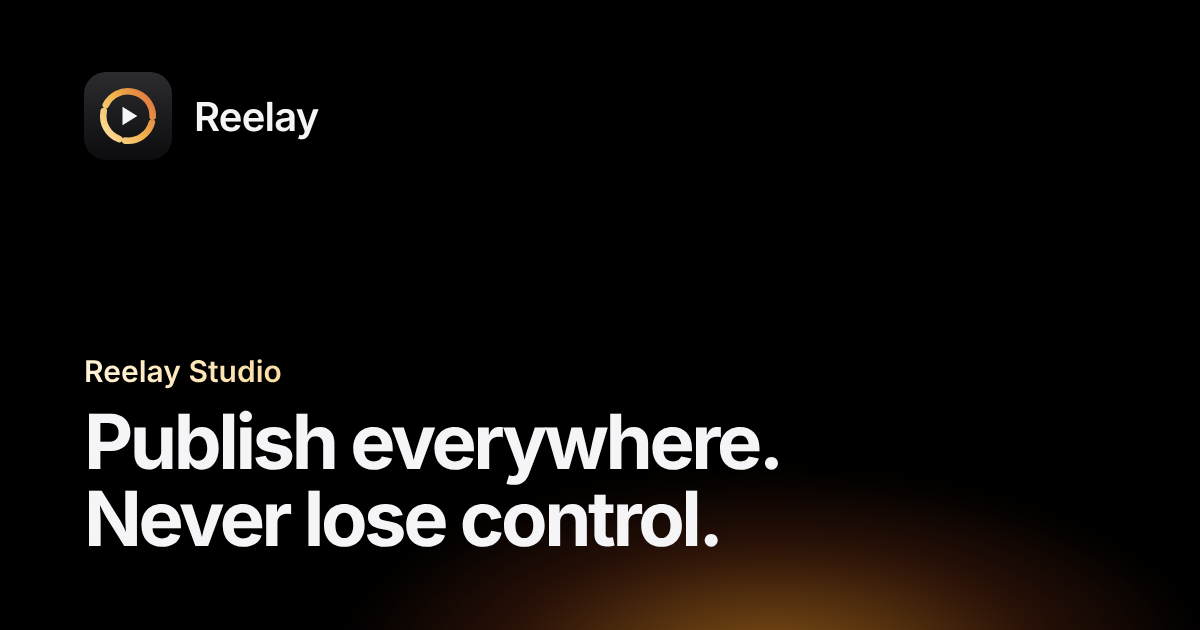
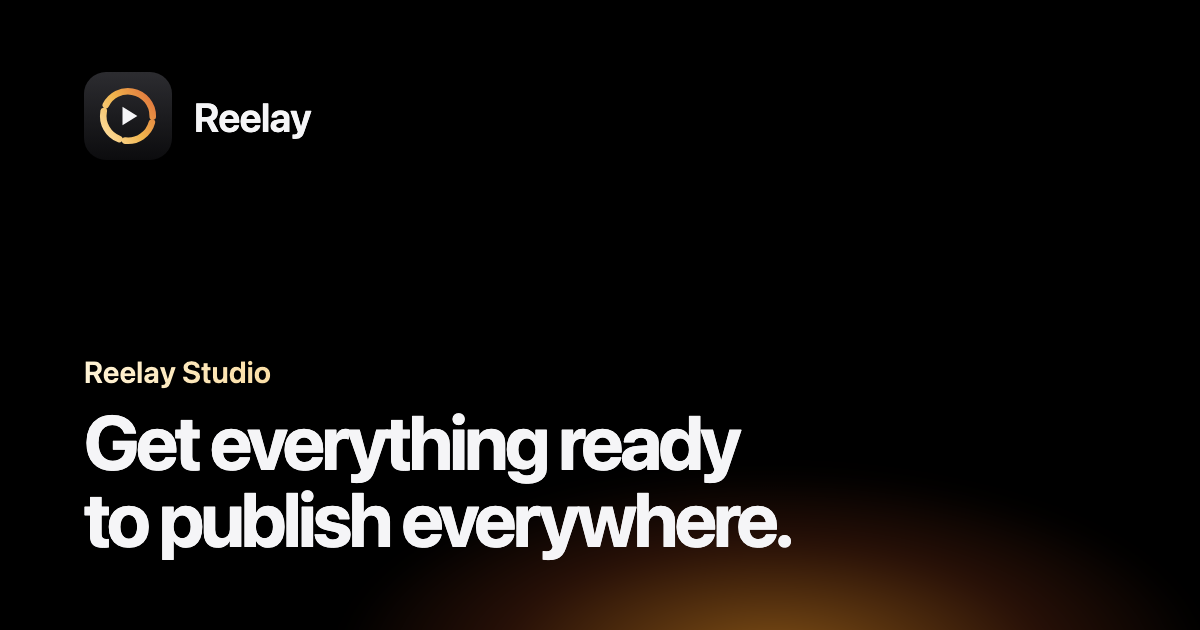
Reelay 1.0 site: positioning, one-time pricing, honest legal pages, Contact
- Landing: "Get everything ready to publish everywhere." Cross-posting is
  a packaging problem: one finished video in, a full package out.
- Pricing: one price in src/data/site.ts (PRICING: $79 one-time, 12 months
  of updates included, never lifetime). Buy links to {{PURCHASE_URL}} and
  the refund window is {{REFUND_WINDOW}} until the owner sets them, so the
  release audit fails rather than shipping a dead button or an invented
  policy. Every "free while in beta" line is gone.
- Privacy: Repurpose sends a video's title, description, notes, transcript
  and voice profile to Meta's Model API only on Generate, with the user's
  own key; auth.reelay.app is not used by this version (no broker is
  configured in the app); optional faster-whisper downloads its model
  from Hugging Face once; paired MCP clients' keys are stored hashed.
- Terms: price, updates and refunds replace the beta section; Meta's
  terms cover Repurpose; liability no longer says the product is free.
- Help: adding a finished file, where transcripts come from (caption
  files, captions, optional whisper), what Repurpose sends; MCP is in
  the app now. Nav "Support" is "Help"; new /contact page; /help
  redirects to /support.
- Audit: one price everywhere, no lifetime promises, MCP and
  transcript rules follow the app, redirect stubs skipped.

Not pushed: pushing main deploys. Pre-existing on main and unchanged here:
three homepage accordion-motion browser checks fail.

Changed region(s): [[0.0617, 0.6333, 0.6783, 0.9048], [0.1542, 0.1508, 0.2775, 0.2413], [0.0617, 0.573, 0.2467, 0.6333]]

diff --git a/sites/reelay/src/data/site.ts b/sites/reelay/src/data/site.ts
@@ -16,9 +16,9 @@ export const href = (path: string) => `${base}${path}`;
 export const SITE = {
   name: 'Reelay',
   fullName: 'Reelay Studio',
-  tagline: 'Publish everywhere. Never lose control.',
+  tagline: 'Get everything ready to publish everywhere.',
   description:
-    'Reelay is a Mac app for creators who post short-form video to more than one platform. Bring in the videos you own or manage, prepare tailored captions and post details for every platform, and only publish what is actually ready. Your library, database, and sign-ins stay on your Mac.',
+    'Reelay is a Mac app that turns one finished video into a complete publishing package: a title, description and caption for every platform, drafted from the video’s transcript and checked against each platform’s rules. It posts to YouTube for you and hands TikTok and Instagram to you ready to paste. Your library, database and sign-ins stay on your Mac.',
   version: RELEASE.label,
   versionNumber: RELEASE.version,
   releaseDate: RELEASE.dateLabel,
@@ -27,6 +27,20 @@ export const SITE = {
   supportEmail: CONTACTS.support,
   complianceEmail: CONTACTS.reviewers,
   privacyEmail: CONTACTS.privacy,
+};
+
+/*
+ * The price (owner's decision: $79 to $99 one-time). One licence, every feature, 12 months of updates
+ * included. Never "lifetime". purchaseUrl stays a {{PLACEHOLDER}} until checkout exists, so the release
+ * audit (REELAY_RELEASE=1) fails rather than shipping a dead Buy button.
+ */
+export const PRICING = {
+  amount: '$79',
+  terms: 'one-time',
+  updates: '12 months of updates included',
+  afterUpdates: 'After 12 months your copy of Reelay keeps working; you stop getting new versions unless you renew updates.',
+  refund: '{{REFUND_WINDOW}}',
+  purchaseUrl: '{{PURCHASE_URL}}',
 };
 
 /* Where the app keeps its data (reelay/paths.py: APP_ID = "Reelay"). */
@@ -184,11 +198,12 @@ export const NAV_LINKS: NavItem[] = [
   { label: 'Download', href: href('/download'), section: 'download', subsections: [] },
   { label: 'Pricing', href: href('/pricing'), section: 'pricing', subsections: [] },
   {
-    label: 'Support',
+    label: 'Help',
     href: href('/support'),
     section: 'support',
     subsections: [
       { label: 'Help and FAQ', href: href('/support'), kicker: 'Help' },
+      { label: 'Contact', href: href('/contact'), kicker: 'Email' },
       { label: 'Security', href: href('/security'), kicker: 'Trust' },
       { label: 'Changelog', href: href('/changelog'), kicker: 'New' },
     ],
@@ -201,9 +216,9 @@ export const FOOTER_EXPLORE: FooterLink[] = [
   { label: 'Automations', href: href('/features/automations') },
   { label: 'Agents', href: href('/ai') },
   { label: 'Download', href: href('/download') },
-  { label: 'Changelog', href: href('/changelog') },
   { label: 'Pricing', href: href('/pricing') },
-  { label: 'Support', href: href('/support') },
+  { label: 'Help', href: href('/support') },
+  { label: 'Contact', href: href('/contact') },
 ];
 
 export const UTILITY_LINKS: FooterLink[] = [

diff --git a/sites/reelay/src/styles/global.css b/sites/reelay/src/styles/global.css
@@ -144,7 +144,7 @@ code, pre, kbd { font-family: var(--font-mono); font-size: 0.88em; letter-spacin
   line-height: 0.98;
   letter-spacing: -0.045em;
 }
-/* Folding phones (280px): at 3rem "Publish everywhere." ran off both edges. */
+/* Folding phones (280px): at 3rem "Get everything ready" ran off both edges. */
 @media (max-width: 340px) { .display { font-size: 2.4rem; } }
 .headline {
   font-size: clamp(2.4rem, 6.2vw, 5rem);
@@ -440,6 +440,8 @@ html.js [data-reveal].is-in { opacity: 1; transform: none; }
 .center { text-align: center; }
 .mt-1 { margin-top: 1rem; } .mt-2 { margin-top: 2rem; } .mt-3 { margin-top: 3rem; } .mt-4 { margin-top: 4.5rem; }
 .placeholder-token { font-family: var(--font-mono); font-size: 0.88em; padding: 0.05em 0.35em; border-radius: 5px; background: var(--r-amber-soft); color: var(--r-amber-text); }
+/* A plain status note inside a legal page ("not switched on in this version"). */
+.callout { padding: 0.9rem 1.1rem; border-radius: var(--radius-md, 12px); border: 1px solid var(--hairline); background: var(--r-amber-soft); color: var(--r-ink); }
 
 /* ── Page hero for inner pages ───────────────────────────────────────── */
 .page-hero {
